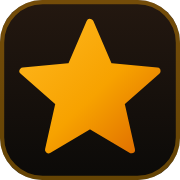
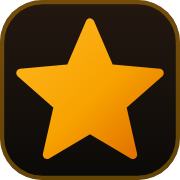
Ícono definitivo del sitio principal

diff --git a/PAGINA ASTRA/astra/index.html b/PAGINA ASTRA/astra/index.html
@@ -14,10 +14,10 @@
 <link rel="preload" as="image" href="assets/img/astra-star-mark.webp" fetchpriority="high">
 <link rel="stylesheet" href="styles.css?v=20260830d">
 
-<link rel="icon" type="image/png" sizes="32x32" href="/favicon-32.png">
-<link rel="icon" type="image/png" sizes="64x64" href="/favicon-64.png">
-<link rel="shortcut icon" href="/favicon.ico">
-<link rel="apple-touch-icon" href="/apple-touch-icon.png">
+<link rel="icon" type="image/png" sizes="32x32" href="/favicon-32.png?v=3">
+<link rel="icon" type="image/png" sizes="64x64" href="/favicon-64.png?v=3">
+<link rel="shortcut icon" href="/favicon.ico?v=3">
+<link rel="apple-touch-icon" href="/apple-touch-icon.png?v=3">
 </head>
 <body>
 
